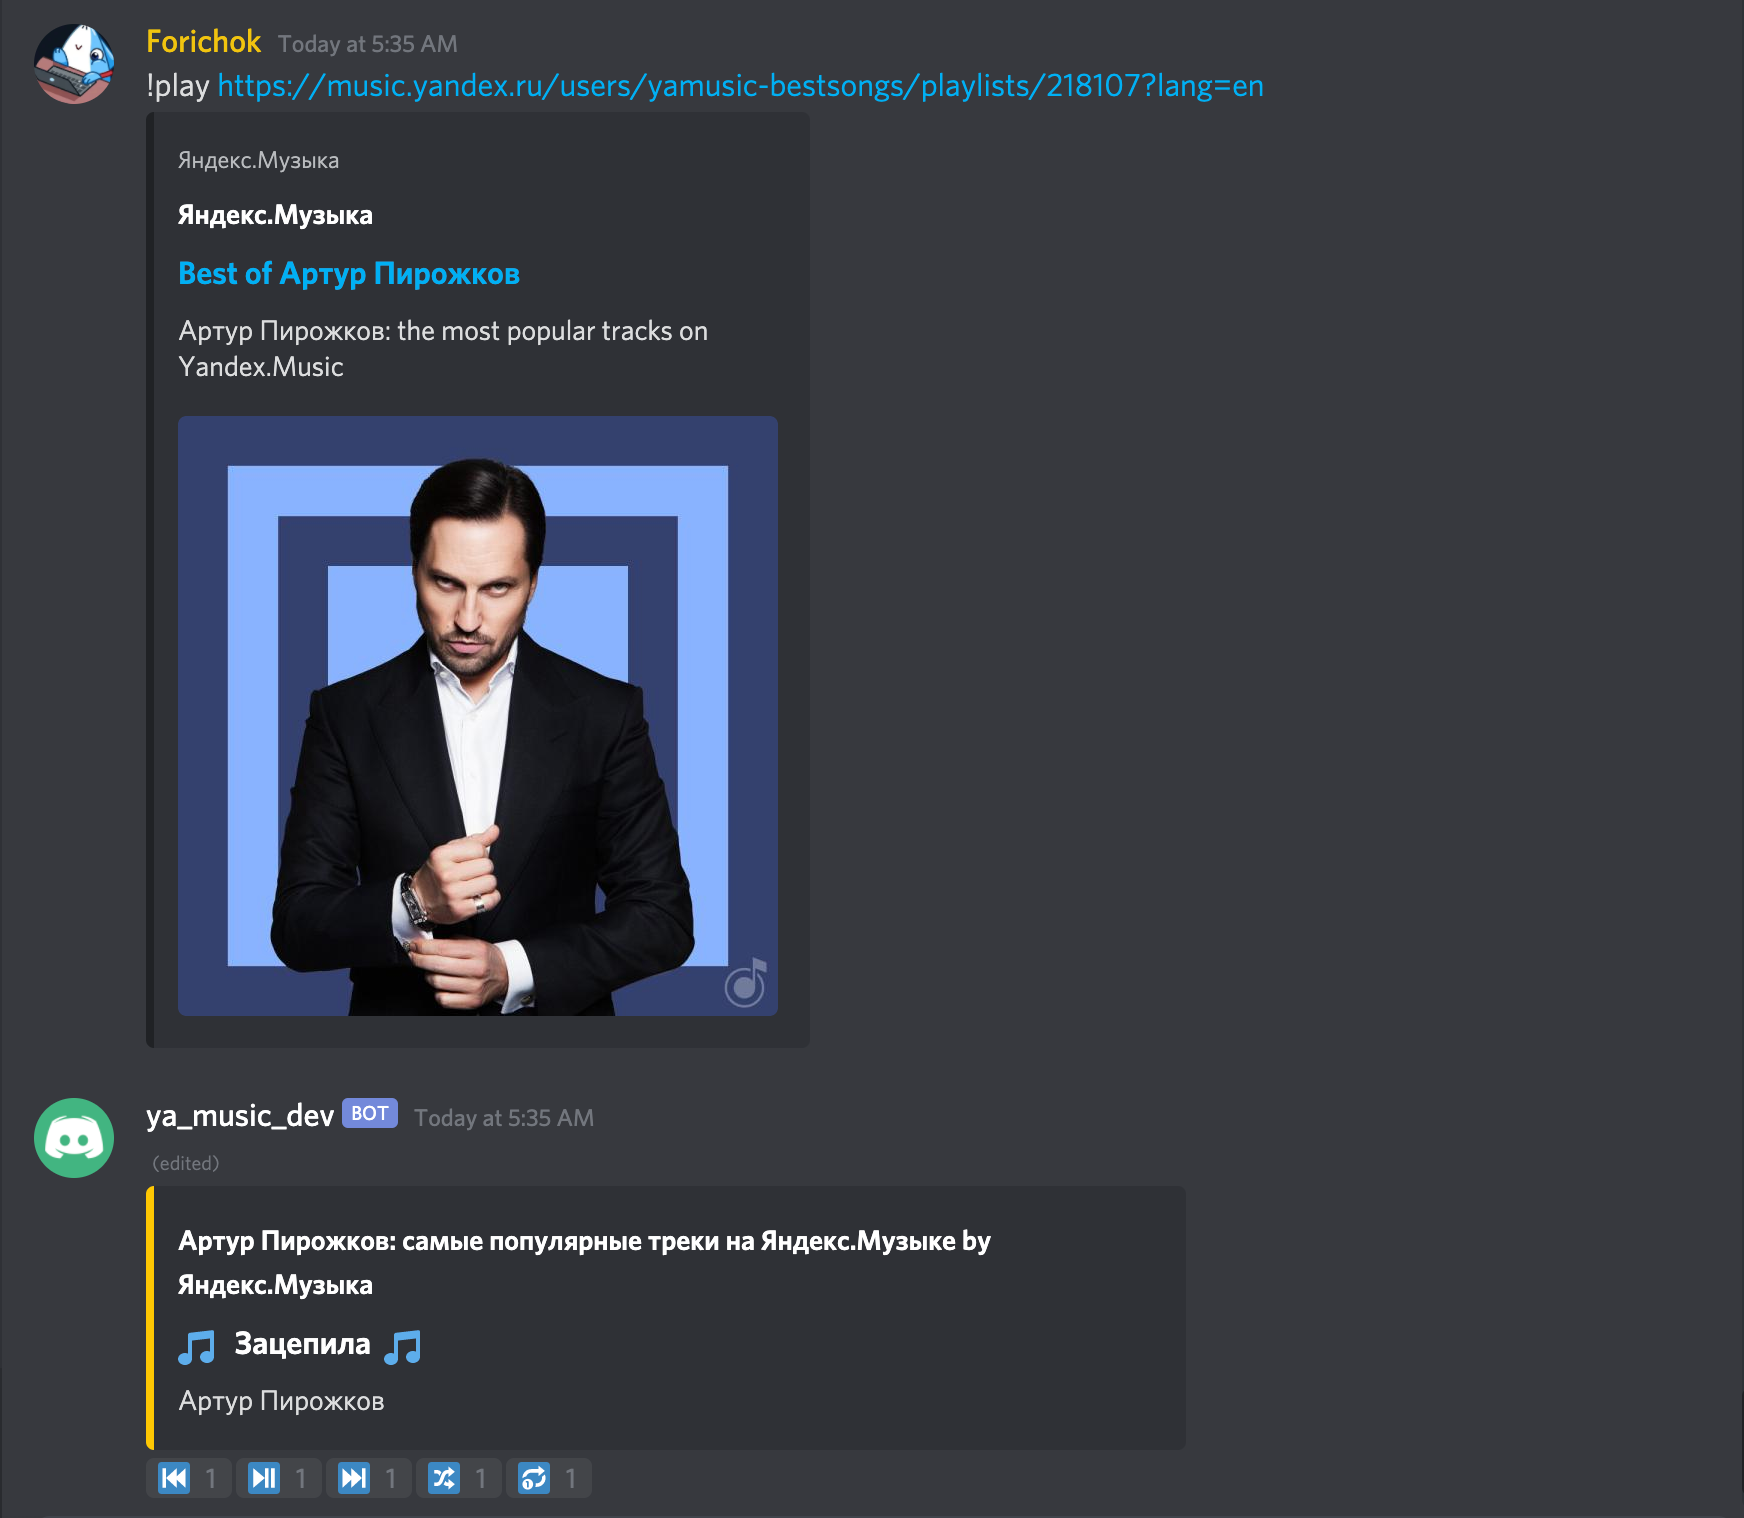
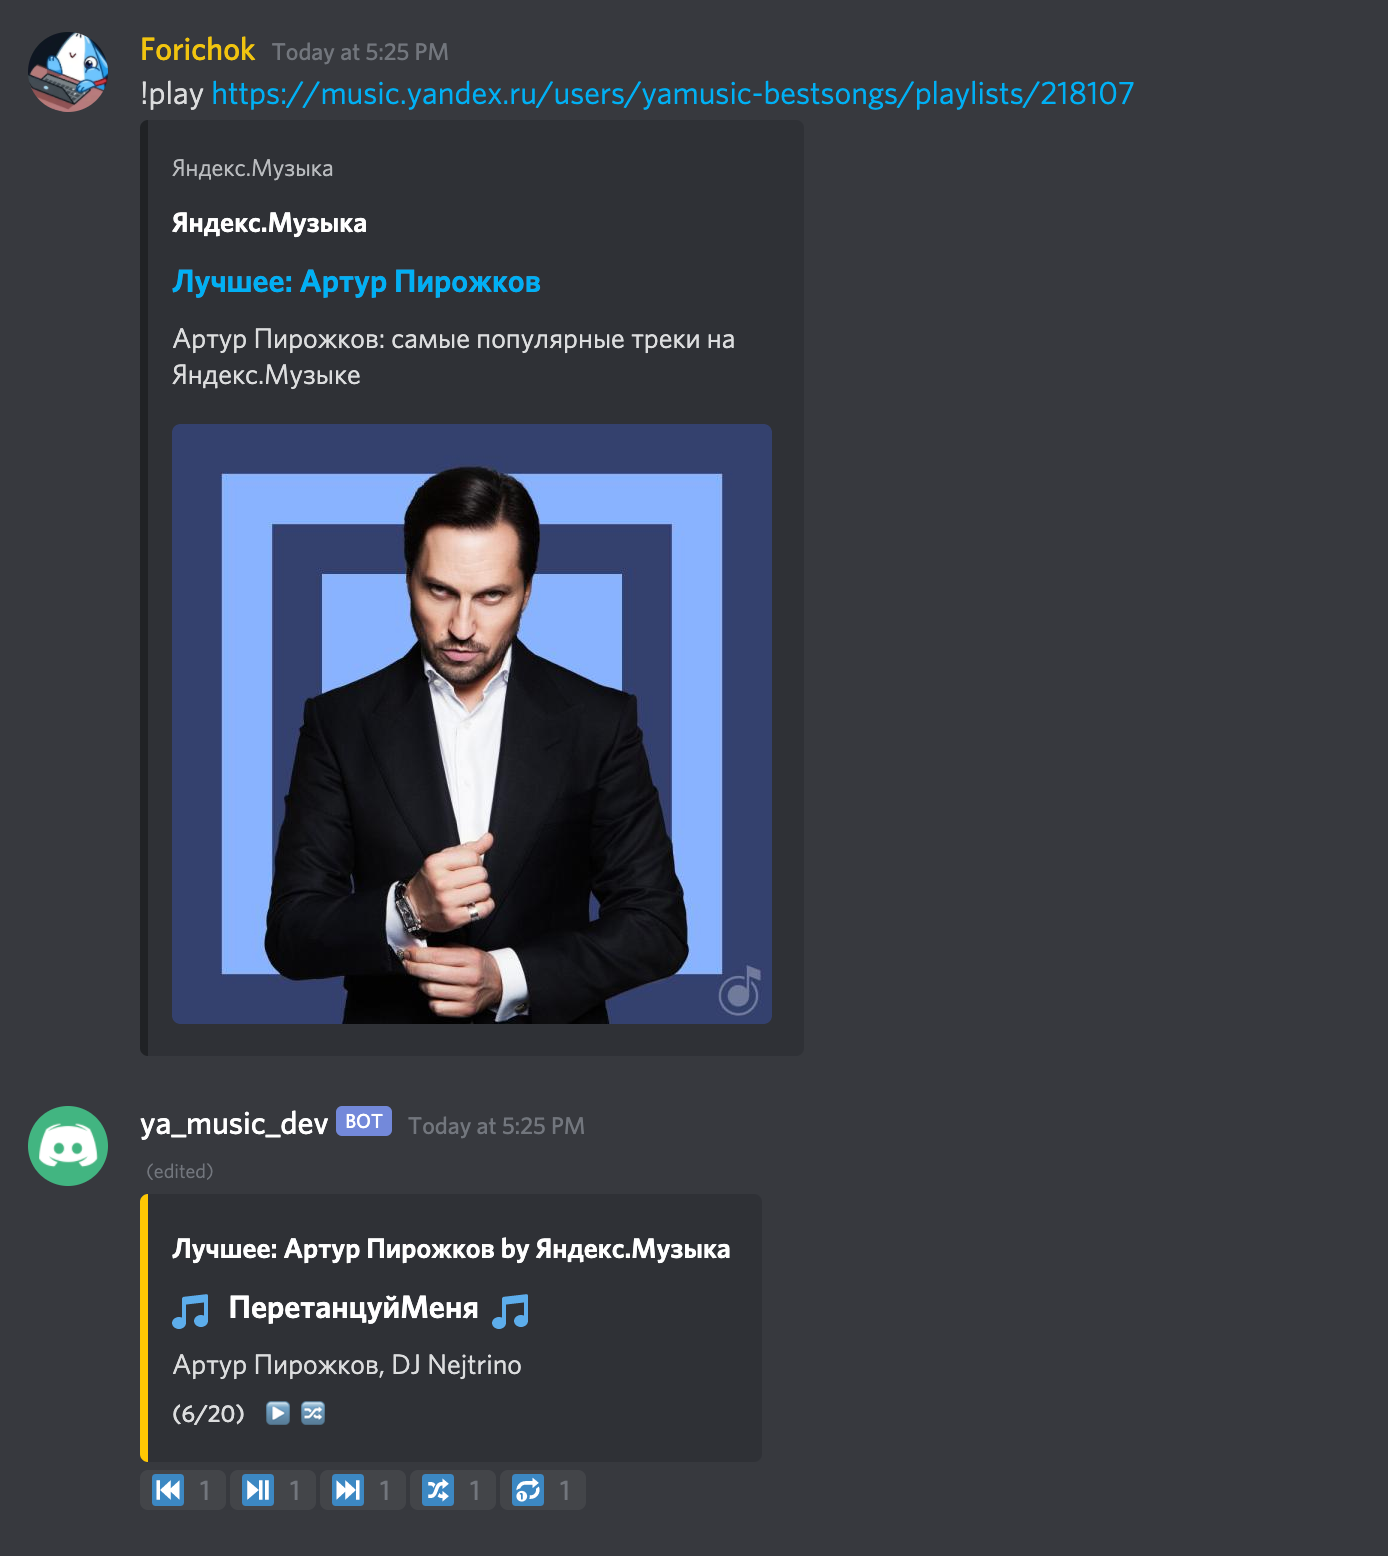
Update track info message

Changed region(s): [[0.0, 0.0, 0.8055, 0.6812], [0.0, 0.7121, 0.5576, 0.9908], [0.3718, 0.9289, 0.4027, 0.9908]]

diff --git a/src/main/java/com/aqulasoft/disyam/models/bot/PlaylistState.java b/src/main/java/com/aqulasoft/disyam/models/bot/PlaylistState.java
@@ -4,9 +4,11 @@ import com.aqulasoft.disyam.models.audio.YaAudioException;
 import com.aqulasoft.disyam.models.audio.YaPlaylist;
 import com.aqulasoft.disyam.models.audio.YaTrack;
 import com.aqulasoft.disyam.utils.BotStateType;
+import lombok.Getter;
 import lombok.Setter;
 import net.dv8tion.jda.api.EmbedBuilder;
 import net.dv8tion.jda.api.entities.Message;
+import net.dv8tion.jda.api.entities.MessageEmbed;
 
 import java.awt.*;
 import java.util.ArrayList;
@@ -16,16 +18,23 @@ import java.util.List;
 public class PlaylistState implements BotState {
     private final YaPlaylist playlist;
     @Setter
+    @Getter
     private int position;
-    private final Message message;
+    private Message message;
     private List<YaTrack> shuffledTracks;
     private boolean isShuffleOn = false;
     private boolean isRepeatOneOn = false;
+    private boolean isPaused = false;
 
     public PlaylistState(YaPlaylist playlist, int position, Message message) {
         this.playlist = playlist;
         this.position = position;
         this.message = message;
+    }
+
+    public void setPaused(boolean paused) {
+        isPaused = paused;
+        updateTrackMsg();
     }
 
 
@@ -43,16 +52,18 @@ public class PlaylistState implements BotState {
         return playlist;
     }
 
-    public int getPosition() {
-        return position;
-    }
-
     public int prev() {
         if (isRepeatOneOn) return position;
         if (position - 1 >= 0) {
             position--;
         } else {
             throw new YaAudioException("Unable to load previous track");
+        }
+        if (isShuffleOn) {
+            shuffledTracks = new ArrayList<>(playlist.getTracks());
+            Collections.shuffle(shuffledTracks);
+        } else {
+            shuffledTracks = null;
         }
         return position;
     }
@@ -68,34 +79,53 @@ public class PlaylistState implements BotState {
         } else {
             throw new YaAudioException("Unable to load next track");
         }
+        if (isShuffleOn) {
+            shuffledTracks = new ArrayList<>(playlist.getTracks());
+            Collections.shuffle(shuffledTracks);
+        } else {
+            shuffledTracks = null;
+        }
         return position;
     }
 
     public void updateShuffle() {
-        if (shuffledTracks == null) {
-            shuffledTracks = new ArrayList<>(playlist.getTracks());
-            Collections.shuffle(shuffledTracks);
-            isShuffleOn = true;
-        } else {
-            isShuffleOn = false;
-            shuffledTracks = null;
-        }
+        isShuffleOn = !isShuffleOn;
+        updateTrackMsg();
     }
 
     public void updateTrackMsg() {
-        String additionalInfo = (isRepeatOneOn ? "\uD83D\uDD02  " : "") + (isShuffleOn ? "\uD83D\uDD00" : "");
-        YaTrack track = getTrack(position);
-        EmbedBuilder builder = new EmbedBuilder();
-        message.addReaction("\uD83D\uDD00").queue();
-        message.addReaction("\uD83D\uDD02").queue();
-        builder.setTitle("\uD83C\uDFB5   " + track.getTitle() + "  \uD83C\uDFB5");
-        builder.setDescription(track.getFormattedArtists() + (additionalInfo.length() > 0 ? "\n\n" + additionalInfo : ""));
-        builder.setAuthor(playlist.getDescriptionFormatted() + (playlist.getAuthor() != null ? " by " + playlist.getAuthor() : ""));
-        builder.setColor(Color.ORANGE);
-        if (message != null) message.editMessage(builder.build()).queue();
+        message.editMessage(buildMessage()).queue(m -> {
+            message = m;
+        });
     }
 
     public void updateRepeatOne() {
         isRepeatOneOn = !isRepeatOneOn;
+        updateTrackMsg();
+    }
+
+
+    private MessageEmbed buildMessage() {
+        EmbedBuilder builder = new EmbedBuilder();
+
+        YaTrack track = getTrack(position);
+        String trackTitle = "\uD83C\uDFB5   " + track.getTitle() + "  \uD83C\uDFB5";
+        String trackAuthor = track.getFormattedArtists();
+        builder.setTitle(trackTitle);
+        builder.setDescription(trackAuthor);
+        builder.setAuthor(playlist.getTitle() + (playlist.getAuthor() != null ? " by " + playlist.getAuthor() : ""));
+        builder.setColor(Color.ORANGE);
+        builder.setFooter(getFooter());
+        message.addReaction("⏮").queue();
+        message.addReaction("⏯").queue();
+        message.addReaction("⏭").queue();
+        message.addReaction("\uD83D\uDD00").queue();
+        message.addReaction("\uD83D\uDD02").queue();
+        return builder.build();
+    }
+
+    private String getFooter() {
+        String additionalInfo = (isPaused ? "⏸ " : "▶ ") + (isRepeatOneOn ? "\uD83D\uDD02 " : "") + (isShuffleOn ? "\uD83D\uDD00" : "");
+        return String.format("(%s/%s)    ", position + 1, playlist.getTrackCount()) + additionalInfo;
     }
 }

diff --git a/src/main/java/com/aqulasoft/disyam/audio/TrackScheduler.java b/src/main/java/com/aqulasoft/disyam/audio/TrackScheduler.java
@@ -1,5 +1,6 @@
 package com.aqulasoft.disyam.audio;
 
+import com.aqulasoft.disyam.models.audio.YaAudioException;
 import com.aqulasoft.disyam.models.audio.YaTrack;
 import com.aqulasoft.disyam.models.bot.BotState;
 import com.aqulasoft.disyam.models.bot.PlaylistState;
@@ -70,7 +71,10 @@ public class TrackScheduler extends AudioEventAdapter {
         // giving null to startTrack, which is a valid argument and will simply stop the player.
         PlaylistState state = getYaPlaylistState();
         if (state != null) {
-            loadFromPlaylist(state.next());
+            try {
+                loadFromPlaylist(state.next());
+            } catch (YaAudioException ignored) {
+            }
 
         } else player.startTrack(queue.poll(), false);
     }
@@ -80,6 +84,24 @@ public class TrackScheduler extends AudioEventAdapter {
         // Only start the next track if the end reason is suitable for it (FINISHED or LOAD_FAILED)
         if (endReason.mayStartNext) {
             nextTrack();
+        }
+    }
+
+    @Override
+    public void onPlayerPause(AudioPlayer player) {
+        super.onPlayerPause(player);
+        PlaylistState state = getYaPlaylistState();
+        if (state != null) {
+            state.setPaused(true);
+        }
+    }
+
+    @Override
+    public void onPlayerResume(AudioPlayer player) {
+        super.onPlayerResume(player);
+        PlaylistState state = getYaPlaylistState();
+        if (state != null) {
+            state.setPaused(false);
         }
     }
 
@@ -118,8 +140,9 @@ public class TrackScheduler extends AudioEventAdapter {
 
     public void prevTrack() {
         PlaylistState state = getYaPlaylistState();
-        if (state != null) {
+        try {
             loadFromPlaylist(state.prev());
+        } catch (YaAudioException ignored) {
         }
     }
 
@@ -135,4 +158,10 @@ public class TrackScheduler extends AudioEventAdapter {
         return BotStateManager.getInstance().getState(guildId).getType() == BotStateType.YA_PLAYLIST;
     }
 
+    public void playPlaylist() {
+        PlaylistState state = getYaPlaylistState();
+        if (state != null) {
+            loadFromPlaylist(state.getPosition());
+        }
+    }
 }

diff --git a/src/main/java/com/aqulasoft/disyam/commands/PlayCommand.java b/src/main/java/com/aqulasoft/disyam/commands/PlayCommand.java
@@ -69,7 +69,6 @@ public class PlayCommand implements Command {
         }
 
         PlayerManager playerManager = PlayerManager.getInstance();
-
         playerManager.loadAndPlay(event.getChannel(), args.get(0));
     }
 
@@ -78,18 +77,13 @@ public class PlayCommand implements Command {
         YaTrack track = playlist.getTrack(0);
         if (track != null) {
             EmbedBuilder builder = new EmbedBuilder();
-            builder.setTitle("\uD83C\uDFB5   " + track.getTitle() + "  \uD83C\uDFB5");
-            builder.setDescription(track.getFormattedArtists());
             builder.setColor(Color.ORANGE);
             event.getChannel().sendMessage(builder.build()).queue(message -> {
-                message.addReaction("⏮").queue();
-                message.addReaction("⏯").queue();
-                message.addReaction("⏭").queue();
-                message.addReaction("\uD83D\uDD00").queue();
-                message.addReaction("\uD83D\uDD02").queue();
-                BotStateManager.getInstance().setState(event.getGuild().getIdLong(), new PlaylistState(playlist, 0, message));
+                PlaylistState state = new PlaylistState(playlist, 0, message);
+                BotStateManager.getInstance().setState(event.getGuild().getIdLong(), state);
+                state.updateTrackMsg();
                 PlayerManager playerManager = PlayerManager.getInstance();
-                playerManager.loadAndPlayPlaylist(event.getChannel(), playlist);
+                playerManager.loadAndPlayPlaylist(event.getChannel());
             });
         }
     }

diff --git a/src/main/java/com/aqulasoft/disyam/audio/GuildMusicManager.java b/src/main/java/com/aqulasoft/disyam/audio/GuildMusicManager.java
@@ -2,9 +2,6 @@ package com.aqulasoft.disyam.audio;
 
 import com.sedmelluq.discord.lavaplayer.player.AudioPlayer;
 import com.sedmelluq.discord.lavaplayer.player.AudioPlayerManager;
-import com.sedmelluq.discord.lavaplayer.track.AudioTrack;
-import com.sedmelluq.discord.lavaplayer.track.AudioTrackEndReason;
-import net.dv8tion.jda.api.entities.TextChannel;
 
 /**
  * Holder for both the player and a track scheduler for one guild.
@@ -18,7 +15,6 @@ public class GuildMusicManager {
      * Track scheduler for the player.
      */
     public TrackScheduler scheduler;
-    private TextChannel textChannel;
 
     /**
      * Creates a player and a track scheduler.
@@ -28,12 +24,7 @@ public class GuildMusicManager {
      */
     public GuildMusicManager(AudioPlayerManager manager, long guildId) {
         player = manager.createPlayer();
-        scheduler = new TrackScheduler(player, manager, guildId) {
-            @Override
-            public void onTrackEnd(AudioPlayer player, AudioTrack track, AudioTrackEndReason endReason) {
-                super.onTrackEnd(player, track, endReason);
-            }
-        };
+        scheduler = new TrackScheduler(player, manager, guildId);
         player.addListener(scheduler);
     }
 
@@ -42,9 +33,5 @@ public class GuildMusicManager {
      */
     public AudioPlayerSendHandler getSendHandler() {
         return new AudioPlayerSendHandler(player);
-    }
-
-    public void setTextChannel(TextChannel channel) {
-        this.textChannel = channel;
     }
 }

diff --git a/src/main/java/com/aqulasoft/disyam/service/MessageListener.java b/src/main/java/com/aqulasoft/disyam/service/MessageListener.java
@@ -77,13 +77,11 @@ public class MessageListener extends ListenerAdapter {
             case "\uD83D\uDD00":
                 if (state != null && state.getType() == BotStateType.YA_PLAYLIST) {
                     ((PlaylistState) state).updateShuffle();
-                    ((PlaylistState) state).updateTrackMsg();
                 }
                 break;
             case "\uD83D\uDD02":
                 if (state != null && state.getType() == BotStateType.YA_PLAYLIST) {
                     ((PlaylistState) state).updateRepeatOne();
-                    ((PlaylistState) state).updateTrackMsg();
                 }
                 break;
         }

diff --git a/src/main/java/com/aqulasoft/disyam/audio/PlayerManager.java b/src/main/java/com/aqulasoft/disyam/audio/PlayerManager.java
@@ -41,10 +41,9 @@ public class PlayerManager {
         return musicManager;
     }
 
-    public void loadAndPlayPlaylist(TextChannel channel, YaPlaylist playlist) {
+    public void loadAndPlayPlaylist(TextChannel channel) {
         GuildMusicManager musicManager = getGuildMusicManager(channel.getGuild());
-        musicManager.setTextChannel(channel);
-        musicManager.scheduler.nextTrack();
+        musicManager.scheduler.playPlaylist();
     }
 
     public void loadAndPlay(TextChannel channel, String trackUrl) {

diff --git a/src/main/java/com/aqulasoft/disyam/service/BotStateManager.java b/src/main/java/com/aqulasoft/disyam/service/BotStateManager.java
@@ -22,6 +22,10 @@ public class BotStateManager {
         return botStates.get(guildId);
     }
 
+    public void deleteState(long guildId) {
+        botStates.remove(guildId);
+    }
+
     public static synchronized BotStateManager getInstance() {
         if (INSTANCE == null) {
             INSTANCE = new BotStateManager();
